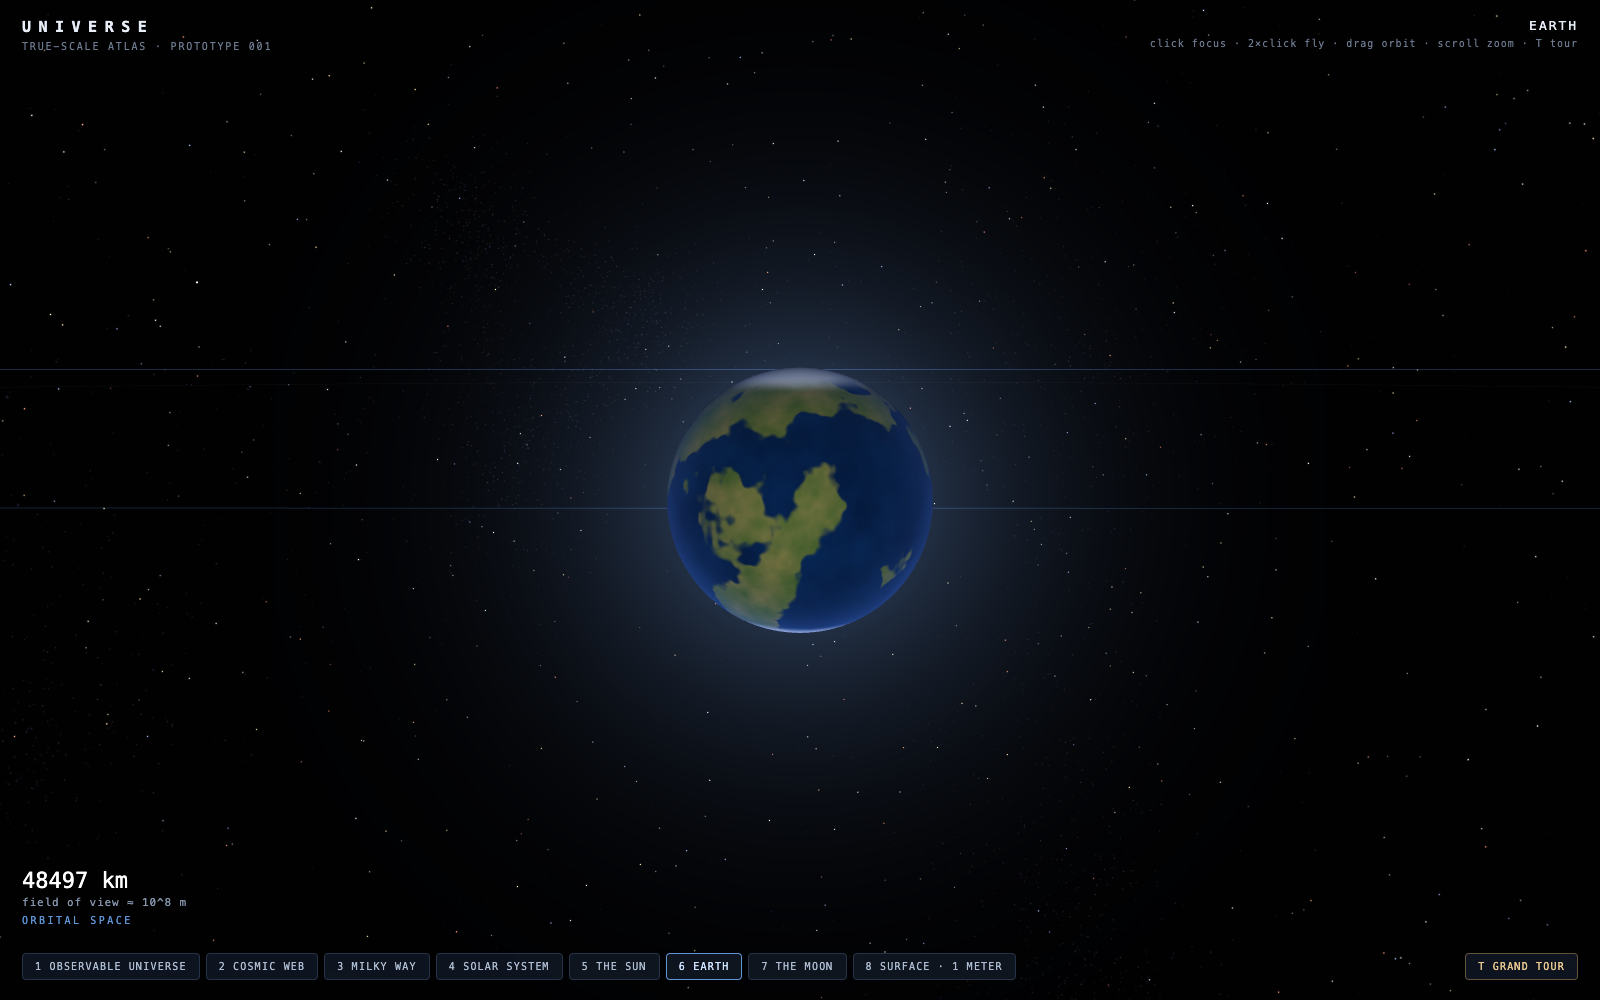
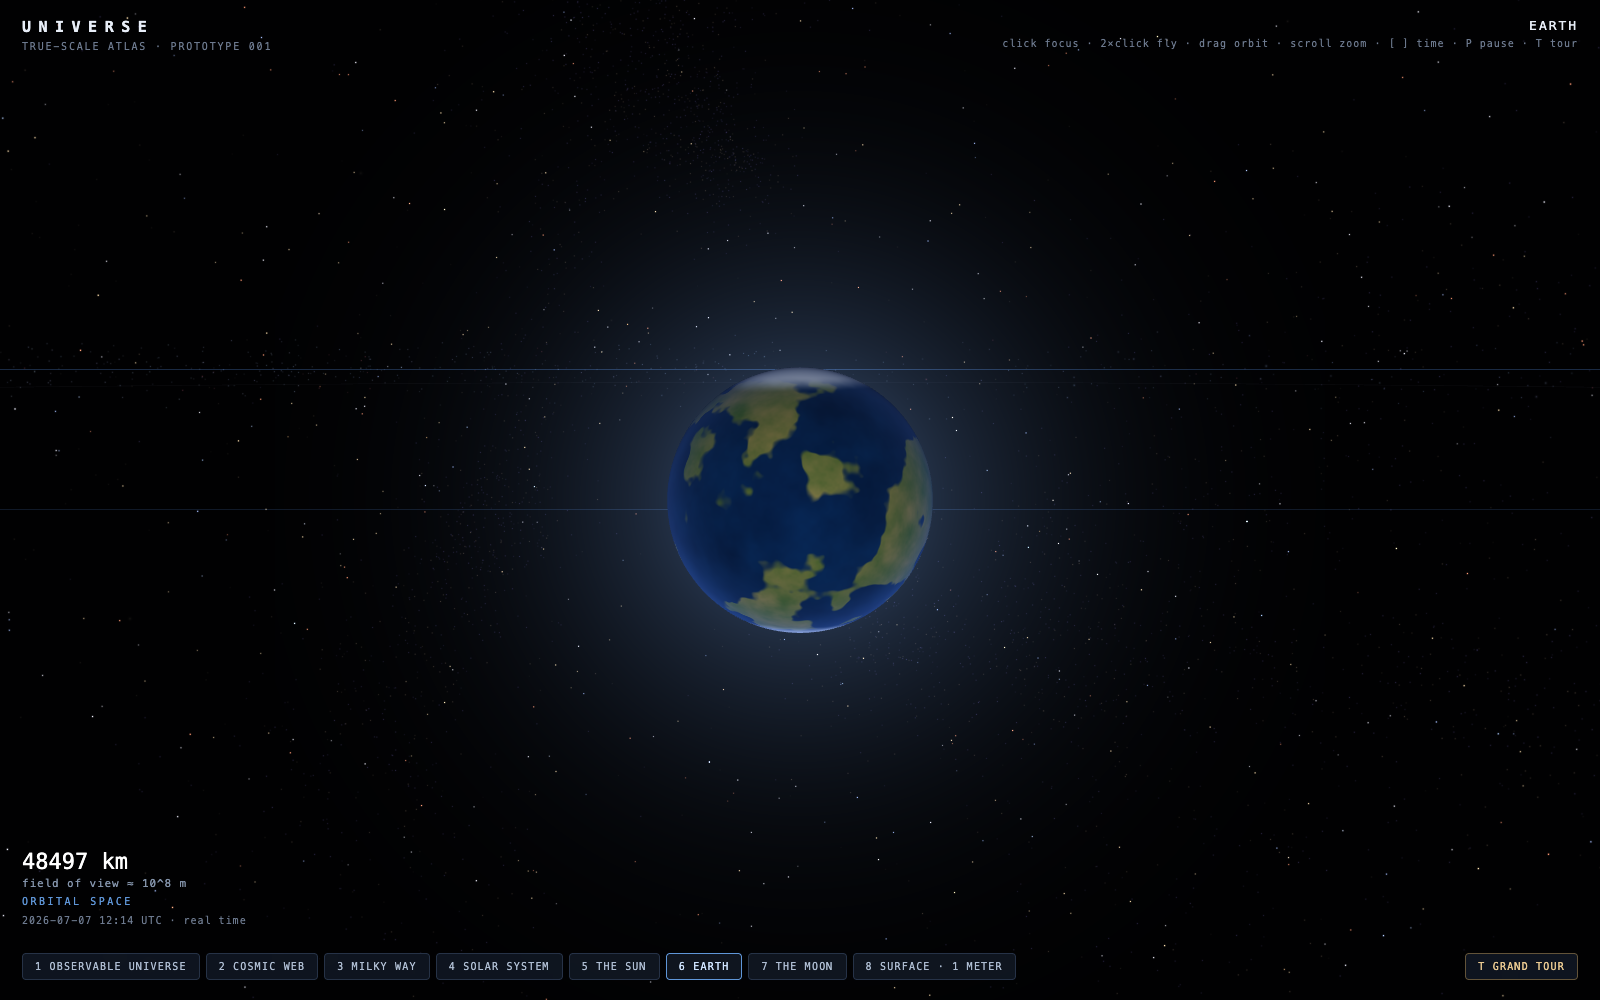
Orbital motion: real ephemeris positions on an adjustable clock
The planets and the Moon now move - and sit where they actually are.
Positions come from a J2000 mean-longitude ephemeris (circular,
coplanar approximation): theta = L0 + 360 * days/period, real periods,
real epoch longitudes. The simulation clock starts at the current
date, so opening the atlas shows today's true planetary configuration
(hand-checked: Earth's computed mean longitude for early July is ~286
degrees, correct for two weeks after the June solstice).

Clock controls: [ and ] step the time scale through presets from real
time to 10 years/second, P pauses, ?speed=<sim s per s> deep-links a
rate, and the HUD shows the simulated date/time next to the scale
readout.

Mechanics: each orbital body writes its position in place into shared
V3s (mesh + target ride the same array), Earth's motion moves its
whole frame (Moon, surface site, and any camera standing on the ground
ride along through the frame tree), planet locator sprites re-upload
per tick, and the camera tracks whichever moving body it is focused
on. Arrival yaw for sunlit-side landings is now computed live instead
of baked at build time, since baked directions go stale as bodies
move.

A physically-true bonus: with Earth at its real July position, the
polar surface site now gets proper midnight-sun lighting. Surface,
Earth, and system screenshots refreshed.

diff --git a/src/main.ts b/src/main.ts
@@ -65,6 +65,49 @@ async function start(): Promise<void> {
   const u = buildUniverse();
   const groupIndex = u.groups.map((g) => renderer.addPointGroup(g.data));
 
+  // ---- simulation clock & mean-longitude ephemeris ----
+  // Planet/Moon positions are real for the simulated date (circular, coplanar
+  // approximation). The clock starts at the actual current time.
+  const J2000 = Date.UTC(2000, 0, 1, 12);
+  const SPEEDS = [1, 60, 3600, 86400, 604800, 2629800, 31557600, 315576000];
+  const SPEED_LABELS = [
+    'real time',
+    '1 min/s',
+    '1 hour/s',
+    '1 day/s',
+    '1 week/s',
+    '1 month/s',
+    '1 year/s',
+    '10 years/s',
+  ];
+  let simMs = Date.now();
+  let speedIndex = 0;
+  let paused = false;
+
+  function updateBodies(): void {
+    const days = (simMs - J2000) / 86400000;
+    for (const b of u.bodies) {
+      const theta = 2 * Math.PI * (b.L0 / 360 + days / b.periodDays);
+      const x = b.a * Math.cos(theta),
+        z = b.a * Math.sin(theta);
+      if (b.frameOffset) {
+        b.frameOffset[0] = x;
+        b.frameOffset[2] = z;
+      }
+      for (const p of b.positions) {
+        p[0] = x;
+        p[2] = z;
+      }
+      if (b.spriteFloatBase !== undefined) {
+        const d = u.groups[u.planetSpriteGroup].data;
+        d[b.spriteFloatBase] = x;
+        d[b.spriteFloatBase + 2] = z;
+      }
+    }
+    renderer.updatePointGroup(groupIndex[u.planetSpriteGroup], u.groups[u.planetSpriteGroup].data);
+  }
+  updateBodies(); // targets must sit at their real positions before any ?goto jump
+
   // ---- camera state ----
   const cam = {
     frame: u.targets[0].frame,
@@ -88,6 +131,13 @@ async function start(): Promise<void> {
     Math.sin(cam.pitch),
     Math.cos(cam.pitch) * Math.cos(cam.yaw),
   ];
+
+  // Arrival yaw for sunlit-side targets, computed live (bodies move now).
+  function arrivalYaw(t: Target): number | undefined {
+    if (!t.sunlit) return undefined;
+    const s = relPos(u.sunFrame, [0, 0, 0], t.frame, t.pos);
+    return Math.atan2(s[0], s[2]);
+  }
 
   // ---- seamless zoom: focus retargeting ----
   // A retarget changes what scrolling converges on without moving the camera:
@@ -198,8 +248,10 @@ async function start(): Promise<void> {
       to: t,
       pitch0: cam.pitch,
       yaw0: cam.yaw,
-      yawDelta:
-        t.yaw === undefined ? 0 : ((((t.yaw - cam.yaw) % (2 * Math.PI)) + 3 * Math.PI) % (2 * Math.PI)) - Math.PI,
+      yawDelta: (() => {
+        const ay = arrivalYaw(t);
+        return ay === undefined ? 0 : ((((ay - cam.yaw) % (2 * Math.PI)) + 3 * Math.PI) % (2 * Math.PI)) - Math.PI;
+      })(),
       t: 0,
       dur: clamp(1.5 + decades * 0.28, 2, 9),
       switched: false,
@@ -215,7 +267,8 @@ async function start(): Promise<void> {
     cam.focus = [...t.pos] as V3;
     cam.dist = t.dist;
     cam.pitch = t.pitch;
-    if (t.yaw !== undefined) cam.yaw = t.yaw;
+    const ay = arrivalYaw(t);
+    if (ay !== undefined) cam.yaw = ay;
     activeTarget = i;
     focusName = t.name;
   }
@@ -299,6 +352,9 @@ async function start(): Promise<void> {
       flyTo(n - 1);
     }
     if (e.key === 't' || e.key === 'T') toggleTour();
+    if (e.key === '[') speedIndex = Math.max(0, speedIndex - 1);
+    if (e.key === ']') speedIndex = Math.min(SPEEDS.length - 1, speedIndex + 1);
+    if (e.key === 'p' || e.key === 'P') paused = !paused;
     if (e.key === 'Escape') {
       flight = null;
       retarget = null;
@@ -315,6 +371,14 @@ async function start(): Promise<void> {
   }
   const distParam = parseFloat(params.get('dist') ?? '');
   if (Number.isFinite(distParam)) cam.dist = clamp(distParam, MIN_DIST, MAX_DIST);
+  // ?speed=<sim seconds per real second> — snaps to the nearest preset.
+  const speedParam = parseFloat(params.get('speed') ?? '');
+  if (Number.isFinite(speedParam) && speedParam > 0) {
+    speedIndex = SPEEDS.reduce(
+      (best, s, i) => (Math.abs(Math.log(s / speedParam)) < Math.abs(Math.log(SPEEDS[best] / speedParam)) ? i : best),
+      0,
+    );
+  }
   // ?click=fx,fy — synthetic click at fractional screen coords, fired once
   // after a few frames. Exists so headless tests can exercise picking.
   let pendingClick: number[] | null = (params.get('click') ?? '').split(',').map(parseFloat);
@@ -400,9 +464,19 @@ async function start(): Promise<void> {
       clickFocus(pendingClick[0] * canvas.clientWidth, pendingClick[1] * canvas.clientHeight);
       pendingClick = null;
     }
+    if (!paused) {
+      simMs += dt * SPEEDS[speedIndex] * 1000;
+      updateBodies();
+    }
     updateFlight(dt);
     updateRetarget(dt);
     updateAutoTarget();
+    // Track the focused body: orbiting targets move, and the camera must
+    // move with them (flights and glides manage the focus themselves).
+    if (!flight && !retarget) {
+      const t = u.targets[activeTarget];
+      cam.focus = [t.pos[0], t.pos[1], t.pos[2]];
+    }
 
     const { view, right, up } = viewRotation(cam.yaw, cam.pitch);
     const dir: V3 = [
@@ -498,7 +572,15 @@ async function start(): Promise<void> {
     });
 
     renderer.render(data);
-    hud.update(2 * cam.dist * Math.tan(FOV / 2), focusName, activeTarget, touring);
+    hud.update(
+      2 * cam.dist * Math.tan(FOV / 2),
+      focusName,
+      activeTarget,
+      touring,
+      simMs,
+      SPEED_LABELS[speedIndex],
+      paused,
+    );
     requestAnimationFrame(frame);
   }
 

diff --git a/src/scene.ts b/src/scene.ts
@@ -50,7 +50,20 @@ export interface Target {
   exit?: number;
   hidden?: boolean; // reachable via URL / flights only, no HUD button
   radius?: number; // physical bound radius in meters; presence makes it clickable
-  yaw?: number; // arrival yaw for flights/jumps (e.g. face a planet's sunlit side)
+  sunlit?: boolean; // flights/jumps arrive facing the sunlit side (yaw computed live)
+}
+
+// A body on a circular mean-longitude orbit in its frame's XZ plane. Every
+// V3 in `positions` is written in place each tick (mesh/target arrays share
+// references); `frameOffset` moves a whole child frame (Earth carries the
+// Moon, the surface site, and any camera standing on it automatically).
+export interface OrbitalBody {
+  a: number; // orbit radius, meters
+  periodDays: number;
+  L0: number; // mean longitude at J2000, degrees
+  positions: V3[];
+  frameOffset?: V3;
+  spriteFloatBase?: number; // float offset of its locator sprite in the planet sprite group
 }
 
 export interface Universe {
@@ -60,6 +73,8 @@ export interface Universe {
   groups: PointGroup[];
   orbits: OrbitLine[];
   targets: Target[];
+  bodies: OrbitalBody[];
+  planetSpriteGroup: number; // index into groups; its buffer is re-uploaded as bodies move
 }
 
 const AU = 1.496e11;
@@ -105,8 +120,9 @@ export function buildUniverse(): Universe {
   const galaxy = new Frame('milky-way', root, [0, 0, 0]);
   const sunFrame = new Frame('sun', galaxy, [8.3 * KPC, 0, 9e17]); // real galactocentric distance
 
-  const earthAngle = 0.9;
-  const earthPos: V3 = [AU * Math.cos(earthAngle), 0, AU * Math.sin(earthAngle)];
+  // Placeholder epoch position; updateBodies() overwrites it (in place) from
+  // the mean-longitude ephemeris before the first frame renders.
+  const earthPos: V3 = [AU, 0, 0];
   const earthFrame = new Frame('earth', sunFrame, earthPos);
   const R_EARTH = 6.371e6;
   // Surface site at Earth's +Y pole so local "up" is world +Y (placeholder
@@ -127,38 +143,41 @@ export function buildUniverse(): Universe {
 
   meshes.push(sphere(sunFrame, [0, 0, 0], 6.957e8, [1.0, 0.72, 0.35], 2));
 
-  const planets: [string, number, number, [number, number, number], number][] = [
-    ['mercury', 0.387 * AU, 2.44e6, [0.62, 0.58, 0.54], 4],
-    ['venus', 0.723 * AU, 6.05e6, [0.86, 0.76, 0.55], 3],
-    ['earth', AU, R_EARTH, [0.2, 0.4, 0.7], 1],
-    ['mars', 1.524 * AU, 3.39e6, [0.76, 0.42, 0.25], 4],
-    ['jupiter', 5.203 * AU, 6.99e7, [0.78, 0.63, 0.44], 3],
-    ['saturn', 9.537 * AU, 5.82e7, [0.86, 0.76, 0.55], 3],
-    ['uranus', 19.19 * AU, 2.54e7, [0.62, 0.85, 0.89], 3],
-    ['neptune', 30.07 * AU, 2.46e7, [0.31, 0.48, 0.85], 3],
+  // name, a, radius, color, matId, mean longitude at J2000 (deg), period (days)
+  const planets: [string, number, number, [number, number, number], number, number, number][] = [
+    ['mercury', 0.387 * AU, 2.44e6, [0.62, 0.58, 0.54], 4, 252.25, 87.969],
+    ['venus', 0.723 * AU, 6.05e6, [0.86, 0.76, 0.55], 3, 181.98, 224.701],
+    ['earth', AU, R_EARTH, [0.2, 0.4, 0.7], 1, 100.46, 365.256],
+    ['mars', 1.524 * AU, 3.39e6, [0.76, 0.42, 0.25], 4, 355.43, 686.98],
+    ['jupiter', 5.203 * AU, 6.99e7, [0.78, 0.63, 0.44], 3, 34.4, 4332.59],
+    ['saturn', 9.537 * AU, 5.82e7, [0.86, 0.76, 0.55], 3, 49.94, 10759.22],
+    ['uranus', 19.19 * AU, 2.54e7, [0.62, 0.85, 0.89], 3, 313.23, 30688.5],
+    ['neptune', 30.07 * AU, 2.46e7, [0.31, 0.48, 0.85], 3, 304.88, 60182],
   ];
+  const bodies: OrbitalBody[] = [];
   const planetSprites: number[][] = [];
   const planetTargets: Target[] = [];
-  planets.forEach(([name, a, r, color, matId], i) => {
+  planets.forEach(([name, a, r, color, matId, L0, periodDays]) => {
     orbits.push({ frame: sunFrame, center: [0, 0, 0], radius: a, color: [0.4, 0.62, 1.0], alpha: 0.2 });
+    const spriteFloatBase = planetSprites.length * 8;
     if (name === 'earth') {
       meshes.push(sphere(earthFrame, [0, 0, 0], r, color, matId, 1.0));
       planetSprites.push([...earthPos, r * 4, 0.5, 0.7, 1.0, 0.3]);
+      bodies.push({ a, periodDays, L0, positions: [], frameOffset: earthPos, spriteFloatBase });
       return;
     }
-    const ang = 0.7 + i * 2.39996; // golden-angle spread, aesthetic epoch
-    const pos: V3 = [a * Math.cos(ang), 0, a * Math.sin(ang)];
+    const pos: V3 = [a, 0, 0]; // ephemeris fills this in before first render
     meshes.push(sphere(sunFrame, pos, r, color, matId, matId === 3 ? 0.4 : 0));
     planetSprites.push([...pos, r * 4, color[0], color[1], color[2], 0.28]);
+    bodies.push({ a, periodDays, L0, positions: [pos], spriteFloatBase });
     planetTargets.push({
       name: name.toUpperCase(),
       slug: name,
       frame: sunFrame,
-      pos,
+      pos, // shared reference — the target rides the ephemeris
       dist: 28 * r,
       pitch: 0.15,
-      // Arrive on the sunlit side: camera offset direction ≈ planet -> sun.
-      yaw: Math.atan2(-pos[0], -pos[2]),
+      sunlit: true,
       parent: 'system',
       exit: Math.max(3 * a, 1e12),
       radius: r,
@@ -166,13 +185,15 @@ export function buildUniverse(): Universe {
     });
   });
 
-  // Moon: real semi-major axis & radius.
-  const moonPos: V3 = [3.844e8 * Math.cos(2.2), 0, 3.844e8 * Math.sin(2.2)];
+  // Moon: real semi-major axis, radius, and mean longitude.
+  const moonPos: V3 = [3.844e8, 0, 0];
   meshes.push(sphere(earthFrame, moonPos, 1.737e6, [0.72, 0.7, 0.68], 4));
   orbits.push({ frame: earthFrame, center: [0, 0, 0], radius: 3.844e8, color: [0.7, 0.72, 0.8], alpha: 0.16 });
+  bodies.push({ a: 3.844e8, periodDays: 27.3217, L0: 218.32, positions: [moonPos] });
 
   // Sun glare + planet locator sprites (so the system reads at 1e13 m).
   planetSprites.push([0, 0, 0, 2.2e9, 1.0, 0.85, 0.6, 2.2]);
+  const planetSpriteGroup = groups.length;
   groups.push({ frame: sunFrame, pos: [0, 0, 0], data: new Float32Array(planetSprites.flat()) });
 
   // ---- Surface site: ground plane, reference cubes, the 1 m cube ----
@@ -473,7 +494,7 @@ export function buildUniverse(): Universe {
       pos: [0, 0, 0],
       dist: 4.2e7,
       pitch: 0.15,
-      yaw: Math.atan2(-earthPos[0], -earthPos[2]),
+      sunlit: true,
       parent: 'system',
       exit: 9.9e11,
       child: 'surface',
@@ -487,7 +508,7 @@ export function buildUniverse(): Universe {
       pos: moonPos,
       dist: 8e6,
       pitch: 0.1,
-      yaw: Math.atan2(-earthPos[0], -earthPos[2]),
+      sunlit: true,
       parent: 'earth',
       exit: 1.2e8,
       radius: 1.737e6,
@@ -507,5 +528,5 @@ export function buildUniverse(): Universe {
     ...starTargets,
   ];
 
-  return { root, sunFrame, meshes, groups, orbits, targets };
+  return { root, sunFrame, meshes, groups, orbits, targets, bodies, planetSpriteGroup };
 }

diff --git a/src/hud.ts b/src/hud.ts
@@ -45,6 +45,7 @@ export class Hud {
   private widthEl = document.querySelector('#scale .width') as HTMLElement;
   private expEl = document.querySelector('#scale .exp') as HTMLElement;
   private ctxEl = document.querySelector('#scale .ctx') as HTMLElement;
+  private timeEl = document.querySelector('#scale .time') as HTMLElement;
   private nameEl = document.querySelector('#focus .name') as HTMLElement;
   private buttons = new Map<number, HTMLButtonElement>();
   private tourBtn!: HTMLButtonElement;
@@ -66,12 +67,24 @@ export class Hud {
     bar.appendChild(this.tourBtn);
   }
 
-  update(viewWidth: number, focusName: string, activeTarget: number, touring: boolean): void {
+  update(
+    viewWidth: number,
+    focusName: string,
+    activeTarget: number,
+    touring: boolean,
+    simMs: number,
+    speedLabel: string,
+    paused: boolean,
+  ): void {
     const w = formatWidth(viewWidth);
     this.widthEl.textContent = w.main;
     this.expEl.textContent = `field of view ${w.exp}`;
     this.ctxEl.textContent = contextFor(viewWidth);
     this.nameEl.textContent = focusName;
+    const d = new Date(simMs);
+    const pad = (n: number) => String(n).padStart(2, '0');
+    const date = `${d.getUTCFullYear()}-${pad(d.getUTCMonth() + 1)}-${pad(d.getUTCDate())} ${pad(d.getUTCHours())}:${pad(d.getUTCMinutes())} UTC`;
+    this.timeEl.textContent = paused ? `${date} · paused` : `${date} · ${speedLabel}`;
     for (const [i, b] of this.buttons) b.classList.toggle('active', i === activeTarget);
     this.tourBtn.textContent = touring ? 'T STOP TOUR' : 'T GRAND TOUR';
   }

diff --git a/index.html b/index.html
@@ -72,6 +72,12 @@
         letter-spacing: 0.25em;
         text-transform: uppercase;
       }
+      #scale .time {
+        font-size: 10px;
+        color: #6d7a8f;
+        margin-top: 8px;
+        letter-spacing: 0.1em;
+      }
       #focus {
         top: 18px;
         right: 22px;
@@ -148,10 +154,11 @@
       <div class="width">—</div>
       <div class="exp">—</div>
       <div class="ctx">—</div>
+      <div class="time">—</div>
     </div>
     <div class="hud" id="focus">
       <div class="name">—</div>
-      <div class="hint">click focus · 2×click fly · drag orbit · scroll zoom · T tour</div>
+      <div class="hint">click focus · 2×click fly · drag orbit · scroll zoom · [ ] time · P pause · T tour</div>
     </div>
     <div class="hud" id="targets"></div>
     <div id="fatal"></div>

diff --git a/src/renderer.ts b/src/renderer.ts
@@ -194,6 +194,11 @@ export class Renderer {
     return this.pointGroups.length - 1;
   }
 
+  // Re-upload a point group whose instances move (e.g. planet locator sprites).
+  updatePointGroup(index: number, instances: F32): void {
+    this.device.queue.writeBuffer(this.pointGroups[index].buf, 0, instances);
+  }
+
   resize(width: number, height: number): void {
     this.canvas.width = width;
     this.canvas.height = height;

diff --git a/README.md b/README.md
@@ -25,7 +25,10 @@ back. Or press **T** and let the grand tour fly you the whole way.
 Structure outside the solar system is procedural placeholder (deterministic seed),
 but every dimension that can be real already is: actual planetary radii and
 semi-major axes, the real Moon distance, the real Sun–galactic-center distance,
-a Milky Way with the real ~2.6 kpc disk scale length. The roadmap swaps the
+a Milky Way with the real ~2.6 kpc disk scale length. Time is real too: the
+planets and the Moon sit at their true positions for the simulated date (a
+mean-longitude ephemeris — circular, coplanar approximation) and move as the
+clock runs, from real time up to ten years per second. The roadmap swaps the
 placeholders for real catalogs — Gaia DR3 stars, SDSS galaxies, Earth terrain
 tiles — without touching the engine.
 
@@ -45,6 +48,8 @@ Open the printed URL in a WebGPU browser (Chrome, Edge, or Safari 18+).
 | **2×click** | fly to what's under the cursor                                                                                 |
 | **drag**    | orbit the current focus                                                                                        |
 | **1–8**     | fly to a bookmark (universe, web, galaxy, system, sun, earth, moon, surface)                                   |
+| **[ ]**     | slow down / speed up time (real time → 10 years per second)                                                    |
+| **P**       | pause the simulation clock                                                                                     |
 | **T**       | grand tour: an automated flight through every scale                                                            |
 | **Esc**     | cancel the current flight                                                                                      |
 
@@ -113,8 +118,9 @@ src/
 - [x] Click-to-focus: planets, moons, and every named star are clickable destinations
 - [ ] Full Gaia DR3 star catalog, streamed as hierarchical LOD point tiles
 - [ ] Real deep-sky structure (SDSS/2MASS galaxies, cosmic-web survey data)
+- [x] Time: real orbital motion (mean-longitude ephemeris, adjustable clock, `?speed=`)
 - [ ] Earth terrain via map tiles at the bottom of the zoom
-- [ ] Time: orbital motion, cosmic time scrubbing
+- [ ] Cosmic time scrubbing (deep-time structure evolution)
 - [ ] Honest rendering seam: visually distinguish measured vs procedural
 
 ## Development